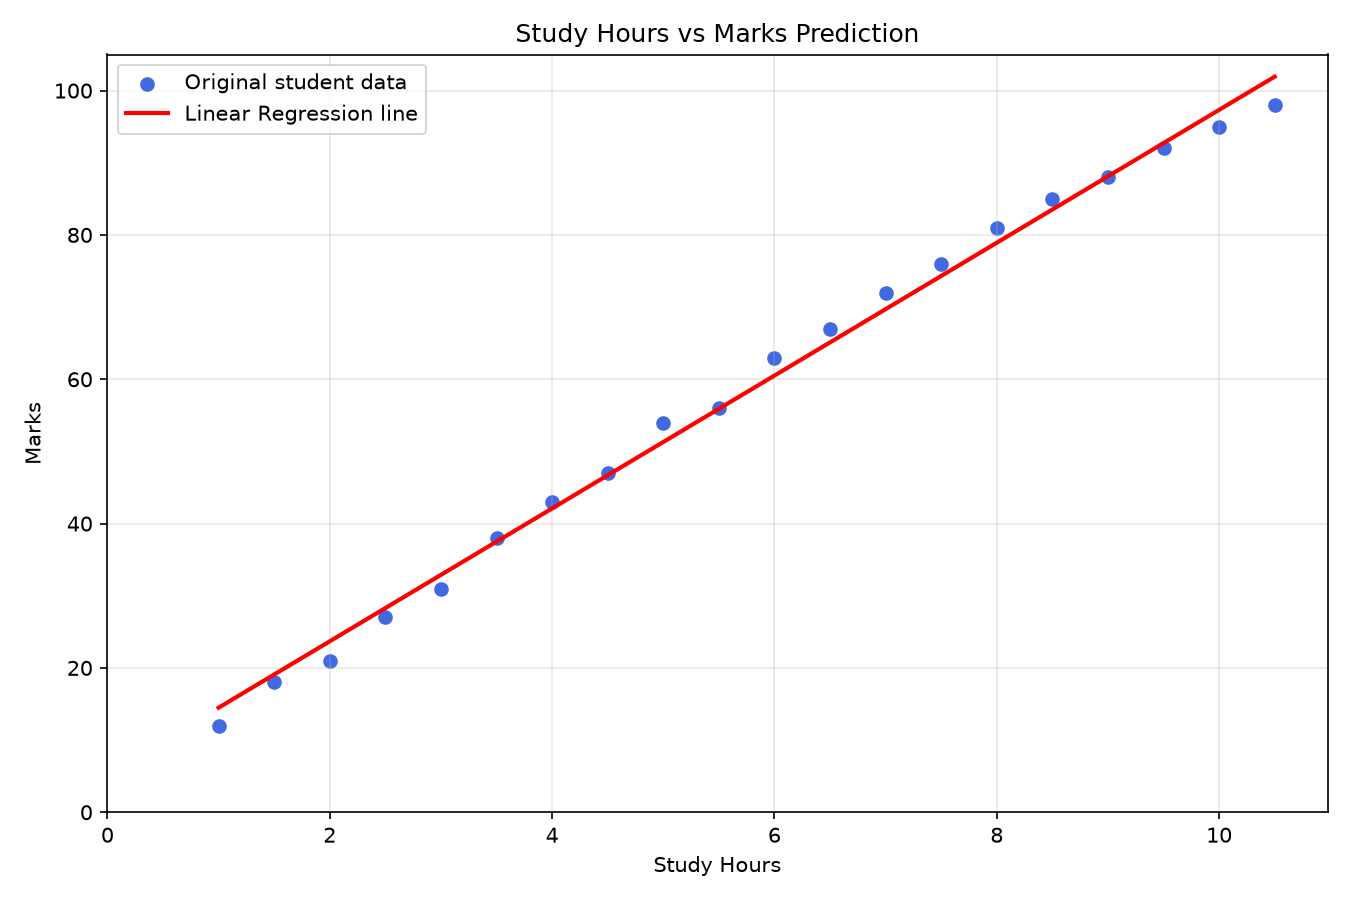
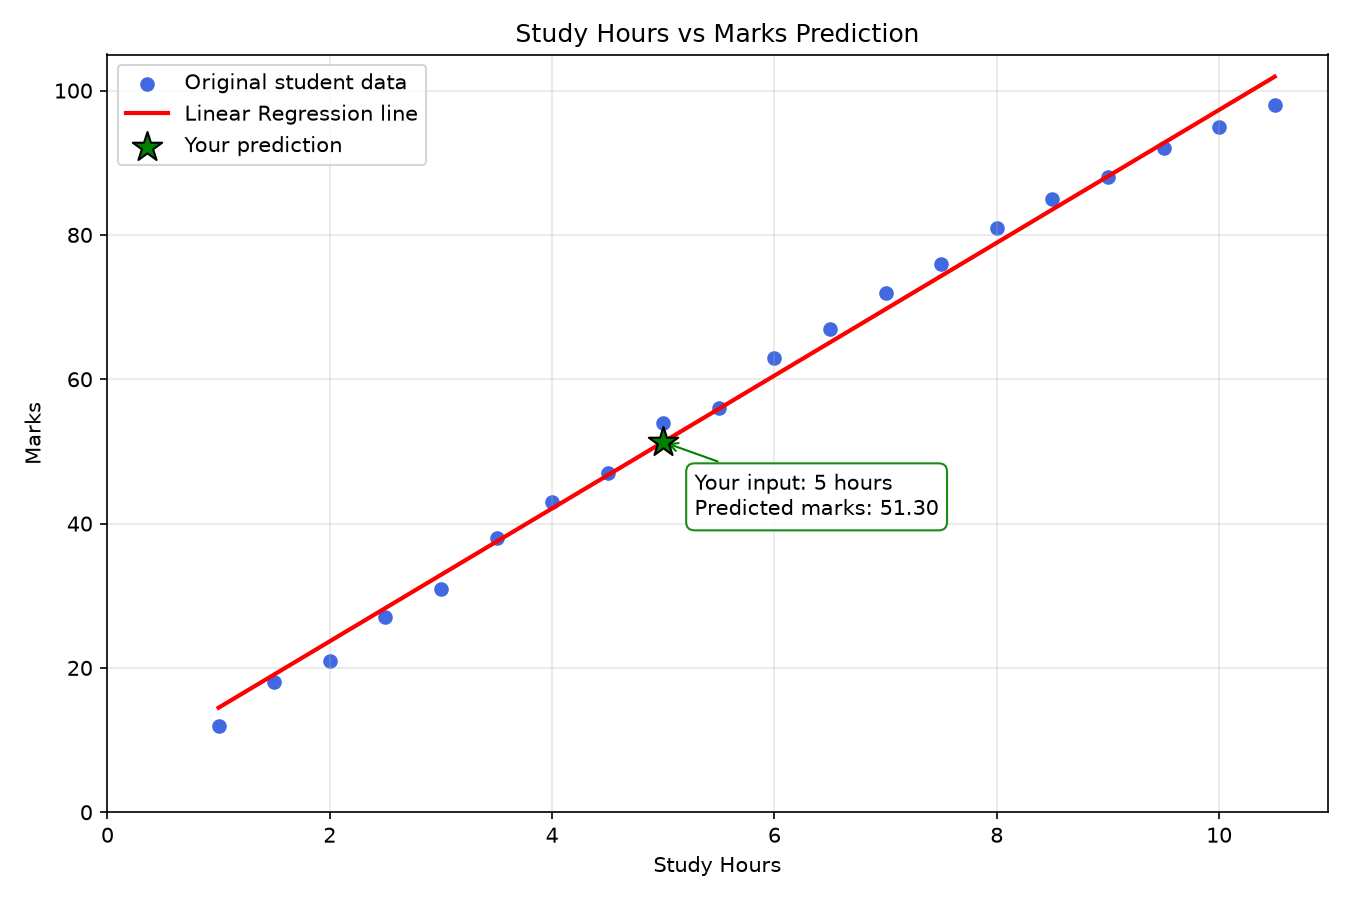
Highlight user prediction on graph

Changed region(s): [[0.4978, 0.4978, 0.7156, 0.5911], [0.0933, 0.1244, 0.2489, 0.1867], [0.4667, 0.4667, 0.4978, 0.4978]]

diff --git a/main.py b/main.py
@@ -15,6 +15,13 @@ Main responsibilities:
 import math
 from pathlib import Path
 
+import matplotlib
+
+# This backend saves the graph as an image file without depending on Tkinter.
+# It avoids graph-window errors on computers where Tkinter is not installed
+# correctly.
+matplotlib.use("Agg")
+
 import matplotlib.pyplot as plt
 import pandas as pd
 from sklearn.linear_model import LinearRegression
@@ -215,12 +222,20 @@ def display_model_equation(prediction_model):
     )
 
 
-def save_and_display_graph(student_dataset, prediction_model):
+def save_and_display_graph(
+    student_dataset,
+    prediction_model,
+    entered_study_hours,
+    predicted_marks,
+):
     """
     Create the study-hours graph, save it as an image, and display it.
 
     Blue points show the original data. The red line shows the predictions
     made by the trained Linear Regression model.
+
+    The green star shows the user's entered study hours and the predicted
+    marks for that input. This helps the graph change based on user input.
     """
 
     study_hours = student_dataset[["Hours"]]
@@ -243,6 +258,31 @@ def save_and_display_graph(student_dataset, prediction_model):
         linewidth=2,
         label="Linear Regression line",
     )
+    plt.scatter(
+        entered_study_hours,
+        predicted_marks,
+        color="green",
+        marker="*",
+        s=220,
+        edgecolors="black",
+        linewidths=1,
+        label="Your prediction",
+        zorder=5,
+    )
+    plt.annotate(
+        f"Your input: {entered_study_hours:g} hours\n"
+        f"Predicted marks: {predicted_marks:.2f}",
+        xy=(entered_study_hours, predicted_marks),
+        xytext=(15, -35),
+        textcoords="offset points",
+        arrowprops={"arrowstyle": "->", "color": "green"},
+        bbox={
+            "boxstyle": "round,pad=0.4",
+            "facecolor": "white",
+            "edgecolor": "green",
+            "alpha": 0.9,
+        },
+    )
     plt.title("Study Hours vs Marks Prediction")
     plt.xlabel("Study Hours")
     plt.ylabel("Marks")
@@ -254,10 +294,6 @@ def save_and_display_graph(student_dataset, prediction_model):
     plt.savefig(GRAPH_FILE, dpi=150)
 
     print(f"\nGraph saved at: {GRAPH_FILE}")
-
-    # The Agg backend is used during automated testing and cannot open a window.
-    if "agg" not in plt.get_backend().lower():
-        plt.show()
 
     plt.close()
 
@@ -325,7 +361,12 @@ def main():
         f"{predicted_marks:.2f} out of 100"
     )
 
-    save_and_display_graph(student_dataset, prediction_model)
+    save_and_display_graph(
+        student_dataset,
+        prediction_model,
+        entered_study_hours,
+        predicted_marks,
+    )
 
 
 # This condition runs the program only when this file is opened directly.

diff --git a/test_main.py b/test_main.py
@@ -8,10 +8,12 @@ from main.py and verifies that they return safe and expected results.
 import unittest
 
 from main import (
+    GRAPH_FILE,
     create_student_dataset,
     evaluate_prediction_model,
     predict_student_marks,
     prepare_training_and_testing_data,
+    save_and_display_graph,
     train_prediction_model,
     validate_study_hours,
 )
@@ -92,6 +94,19 @@ class PredictionModelTests(unittest.TestCase):
 
         self.assertGreaterEqual(predicted_marks, 0)
         self.assertLessEqual(predicted_marks, 100)
+
+    def test_graph_file_is_created_with_user_prediction(self):
+        predicted_marks = predict_student_marks(self.prediction_model, 5)
+
+        save_and_display_graph(
+            self.student_dataset,
+            self.prediction_model,
+            5,
+            predicted_marks,
+        )
+
+        self.assertTrue(GRAPH_FILE.exists())
+        self.assertGreater(GRAPH_FILE.stat().st_size, 0)
 
 
 if __name__ == "__main__":

diff --git a/README.md b/README.md
@@ -122,7 +122,7 @@ flowchart TD
     H -- No --> G
     H -- Yes --> I[Predict marks]
     I --> J[Limit result from 0 to 100]
-    J --> K[Display result and graph]
+    J --> K[Display result and save graph]
 ```
 
 ## Folder Structure
@@ -251,7 +251,7 @@ The program will:
 3. Display the learned equation.
 4. Ask for study hours.
 5. Display predicted marks.
-6. Save and open the graph.
+6. Save the graph with the user's prediction point.
 
 ## Example Output
 
@@ -295,6 +295,8 @@ The program creates the following graph:
 
 - Blue dots represent the original student data.
 - The red line represents the model's prediction pattern.
+- The green star represents the study hours entered by the user and the
+  predicted marks for that input.
 
 ## Testing
 
@@ -388,7 +390,7 @@ Set-ExecutionPolicy -Scope Process -ExecutionPolicy Bypass
 
 This changes the policy only for the current PowerShell window.
 
-### Graph window does not open
+### Where is the graph saved?
 
 Check the saved image:
 
@@ -396,7 +398,8 @@ Check the saved image:
 images/study_hours_marks_graph.png
 ```
 
-The image is saved even when the graph window cannot open.
+The program saves the graph as an image file. This avoids display-window
+problems on systems where Tkinter is not installed correctly.
 
 ### Feature-name warning
 